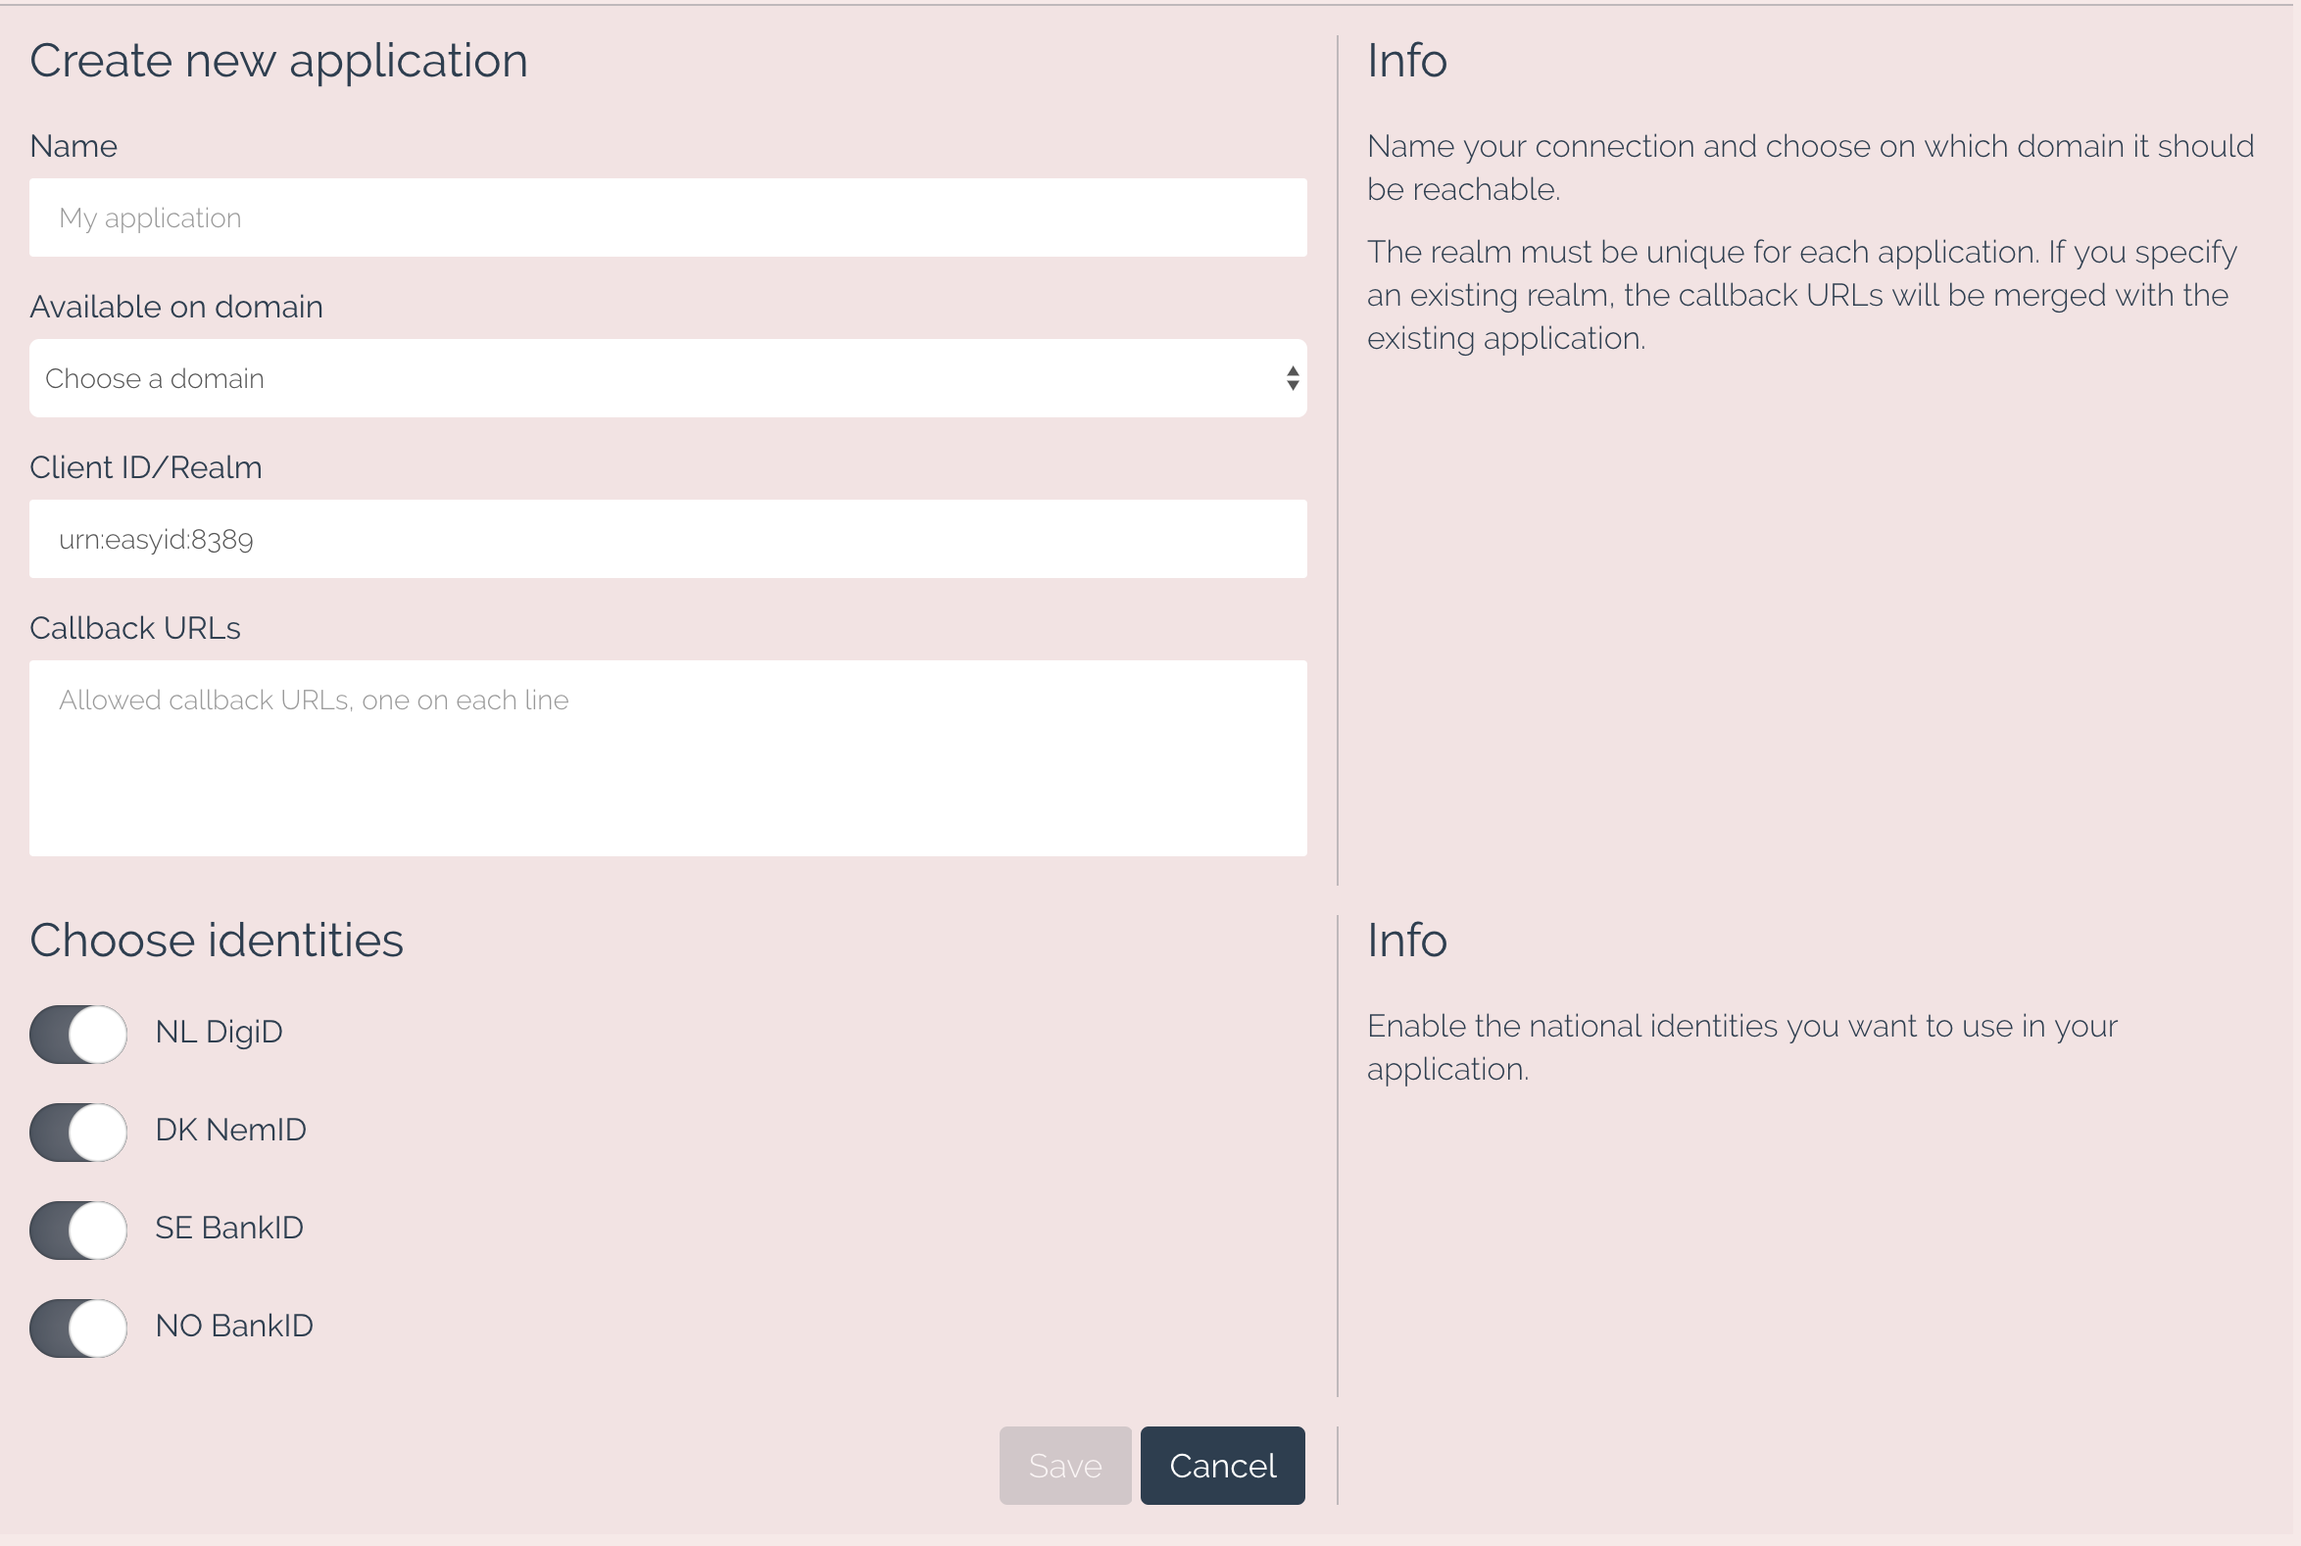
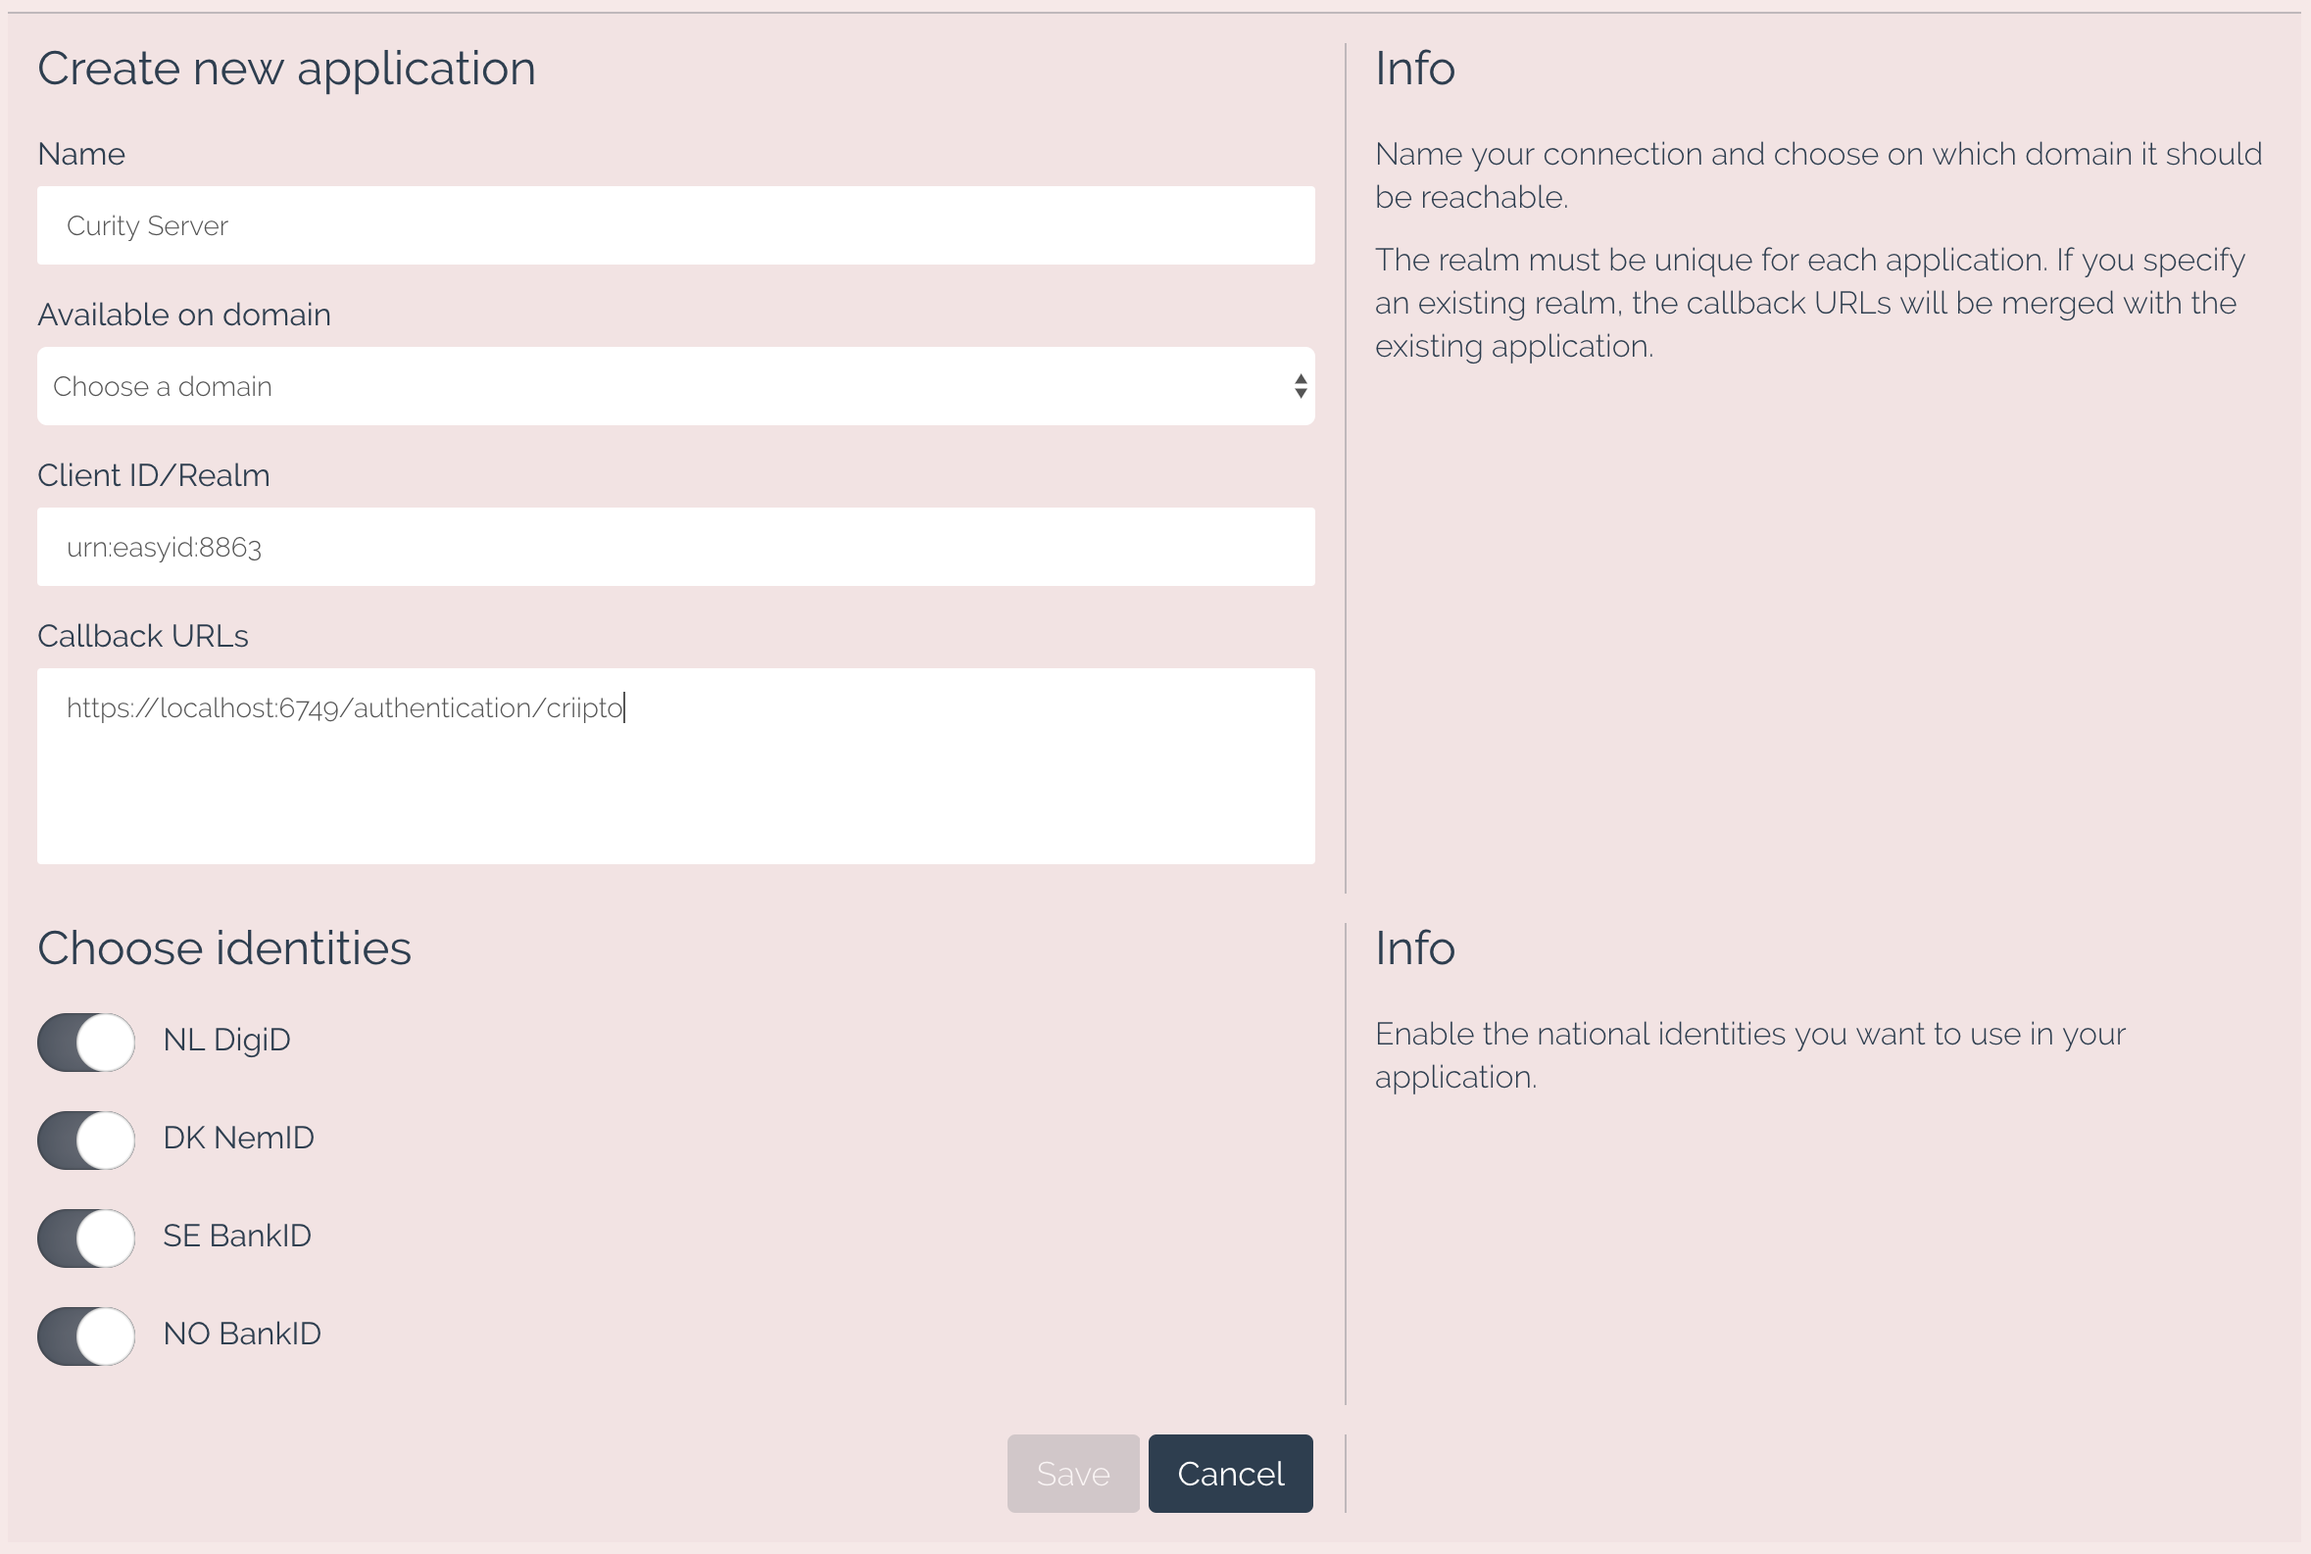
Slightly simpler wordings, and better sample values to clarify the connection
between the images and the text.

diff --git a/README.rst b/README.rst
@@ -45,10 +45,11 @@ There, you can find links to both the signup page and pricing details for produc
 
 Follow the guide to create a tenant in Criipto Verify, and you will end up on the dashboard:
 
-.. image:: ./docs/images/criipto-verify-dashboard.png
+.. figure:: ./docs/images/criipto-verify-dashboard.png
+    :align: center
 
 You can find links to blogs and examples there, as well as sign up to Criipto's Slack channel where tech-support is available.
-There is also an chat-feature on the dashboard where you can contact Criipto.
+There is also a chat-feature on the dashboard where you can contact Criipto.
 
 Creating a connection to Curity from Criipto Verify
 """""""""""""""""""""""""""""""""""""""""""""""""""
@@ -57,7 +58,10 @@ Navigate to the Applications tab - this is the place where you define the integr
 
 Click the 'manually' button and give your application a ``Name`` - this is just for display purposes, use whichever value you see fit:
 
-.. image:: ./docs/images/criipto-verify-application-creation.png
+.. figure:: ./docs/images/criipto-verify-application-creation.png
+    :align: center
+
+\- here, we used ``Curity Server`` for the name, just to make it easy to identify the actual client later on.
 
 Select the domain created for you during signup in the ``Available on domain`` dropdown.
 
@@ -65,12 +69,11 @@ The ``Client ID/Realm`` value is pre-filled with a unique value - you can change
 
 .. note:: This is the value you must register in your Criipto Authenticators ``Client ID`` textfield in Curity (see below).
 
-For the ``Callback URLs`` (multi-line) input, you must add the endpoint in your Curity server where Verify should send the user back to after a successful authentication.
+For the ``Callback URLs`` (multi-line) input, you must add the ``authentication`` endpoint in your Curity server where Verify should send the user back to after a successful authentication.
 You can have several values here - and there is no restriction on which DNS domains you can use. But all values used at runtime must be registered here.
+The value in here is just an example, you should consult your Curity Endpoints configuration for the actual value to use.
 
-.. note:: As an example, if your Curity server is running on the default development URL ``https://localhost:6749``, you must add a ``Callback URL`` value of ``https://localhost:6749/authorize/callback`` 
-
-You can choose to deselect any of the identity schemes that you will not be needing. You can also just leave them all enabled for the purpose of getting the integration set up.
+You can choose to disable any of the identity schemes that you will not be needing. You can also just leave them all enabled for the purpose of getting the integration set up.
 You can always come back later and change which ones are enabled.
 
 Now, click the ``Save`` button to store the basic configuration of your Curity connection.
@@ -80,8 +83,6 @@ The next task is to set up some additional details for the OAuth2 procotol commu
 1. Click on the application you just created:
     .. figure:: ./docs/images/criipto-verify-curity-application.png
         :align: center
-    
-    (the application was named ``Curity Server`` here, YMMV if you used another name in the steps above)
 2. Scroll down to the ``OpenID Connect`` section
 3. Click the ``Enable OAuth2 Code Flow`` slider - a dialog pops up with a message about client secret creation. Click ``OK``.
 4. A new dialog shows up, with a freshly generated client secret, and a description about how it must be handled. 
